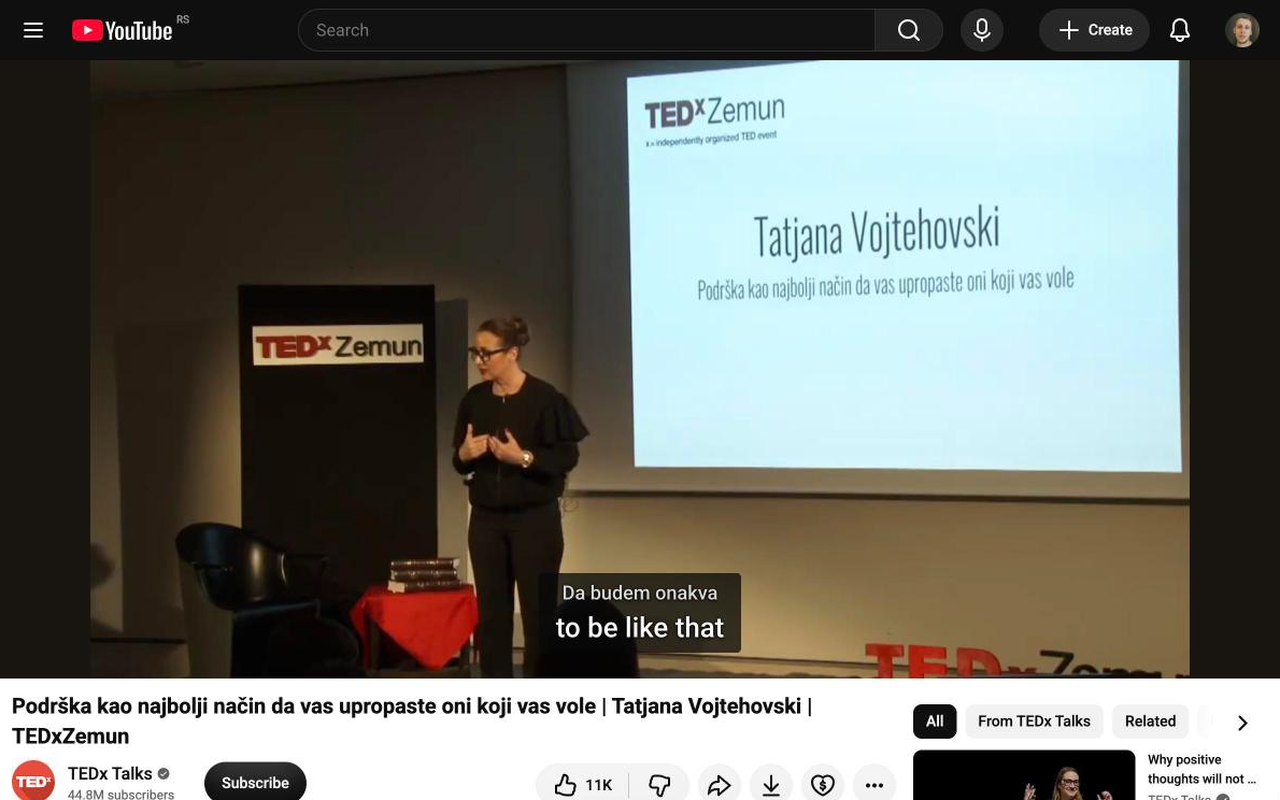
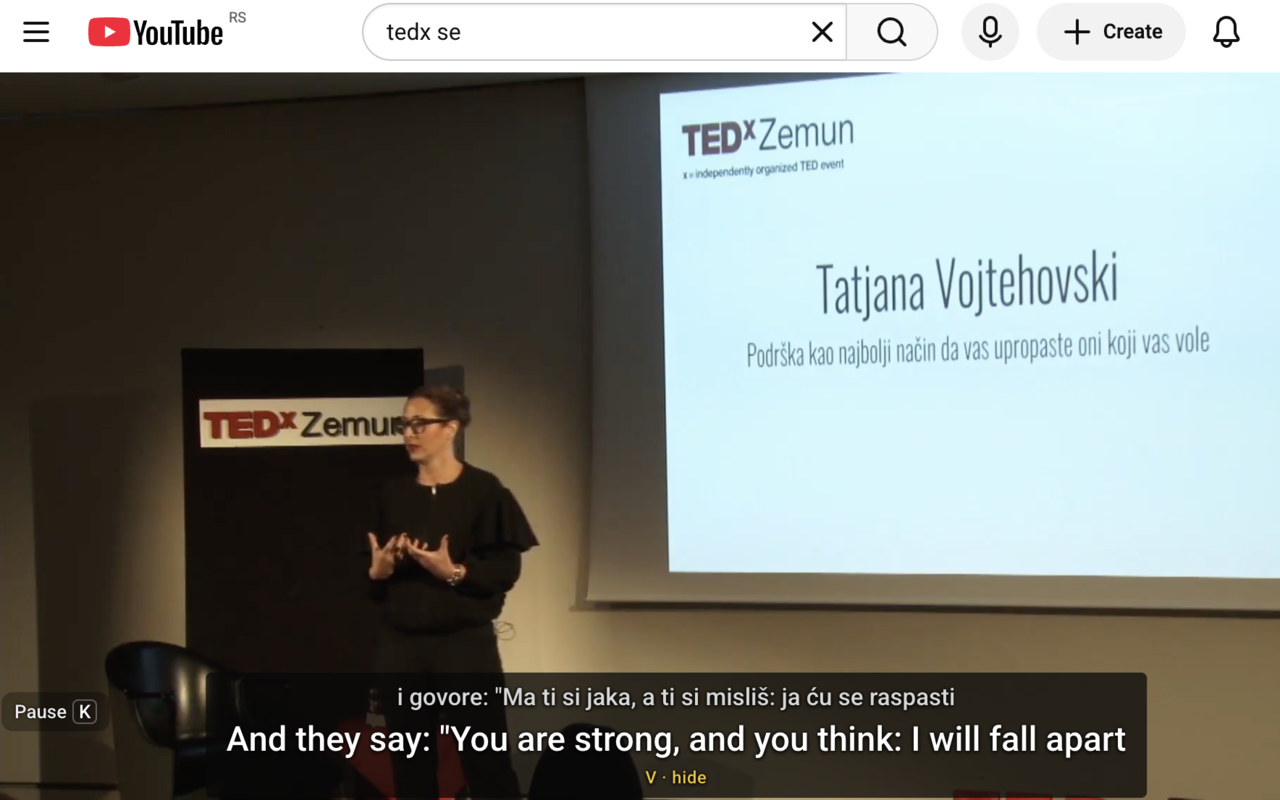
feat: improve search results and link previews for the website (#11)

diff --git a/tests/site.test.js b/tests/site.test.js
@@ -1,10 +1,14 @@
 import { test } from 'node:test';
 import assert from 'node:assert/strict';
-import { readFileSync } from 'node:fs';
-import { LANGUAGES, loadStrings, render } from '../site/build.mjs';
+import { createHash } from 'node:crypto';
+import { existsSync, mkdtempSync, readFileSync, rmSync } from 'node:fs';
+import { tmpdir } from 'node:os';
+import { join } from 'node:path';
+import { LANGUAGES, build, loadStrings, render } from '../site/build.mjs';
 
 const template = readFileSync(new URL('../site/template.html', import.meta.url), 'utf8');
 const strings = loadStrings();
+const SITE = 'https://rawmind.github.io/titl/';
 
 const tags = (text) => [...text.matchAll(/<\/?(\w+)|\{\w+\}/g)].map((m) => m[0]).sort().join(' ');
 
@@ -29,7 +33,7 @@ test('Arabic renders right to left', () => {
 test('every page renders with no placeholder left', () => {
   for (const lang of LANGUAGES) {
     const html = render(template, lang, strings[lang.slug]);
-    assert.doesNotMatch(html, /\{\{\w+\}\}|\{(store|release|guide|llmGuide|privacy|kofi|video)\}/, lang.slug);
+    assert.doesNotMatch(html, /\{\{\w+\}\}|\{(store|release|guide|llmGuide|privacy|kofi|video|whisperCpp)\}/, lang.slug);
     assert.match(html, new RegExp(`<html lang="${lang.htmlLang}"`));
     assert.match(html, /hreflang="ru" href="https:\/\/rawmind\.github\.io\/titl\/ru\/"/);
   }
@@ -38,7 +42,7 @@ test('every page renders with no placeholder left', () => {
 test('Russian page loads assets from the site root', () => {
   const html = render(template, LANGUAGES.find((l) => l.slug === 'ru'), strings.ru);
   assert.match(html, /href="\.\.\/style\.css"/);
-  assert.match(html, /src="\.\.\/store\/screenshot-1-subtitles\.png"/);
+  assert.match(html, /src="\.\.\/img\/screenshot-1-subtitles-1280\.webp"/);
 });
 
 test('every page links to every language and marks its own', () => {
@@ -70,4 +74,87 @@ test('Google Analytics loads only after consent', () => {
 
 test('each OS has an install anchor that opens its tab', () => {
   for (const anchor of ['installation_macos', 'installation_windows', 'installation_linux']) assert.match(template, new RegExp(anchor));
+});
+
+test('search titles and descriptions are unique and within the length limits', () => {
+  for (const key of ['title', 'metaDesc']) {
+    assert.equal(new Set(LANGUAGES.map((l) => strings[l.slug][key])).size, LANGUAGES.length, key);
+  }
+  for (const { slug } of LANGUAGES) {
+    assert.ok([...strings[slug].title].length <= 65, `${slug} title`);
+    assert.ok([...strings[slug].metaDesc].length <= 160, `${slug} description`);
+    assert.match(strings[slug].title, /YouTube/);
+    assert.match(strings[slug].title, / · Titl$/);
+  }
+});
+
+test('every page lists the same language alternates, including itself', () => {
+  const expected = [...LANGUAGES.map((l) => `${l.slug} ${l.slug === 'en' ? '' : `${l.slug}/`}`), 'x-default '];
+  for (const lang of LANGUAGES) {
+    const html = render(template, lang, strings[lang.slug]);
+    const found = [...html.matchAll(/<link rel="alternate" hreflang="([^"]+)" href="https:\/\/rawmind\.github\.io\/titl\/([^"]*)">/g)];
+    assert.deepEqual(found.map((m) => `${m[1]} ${m[2]}`), expected, lang.slug);
+  }
+});
+
+test('structured data is valid JSON, describes the page and claims no rating', () => {
+  for (const lang of LANGUAGES) {
+    const html = render(template, lang, strings[lang.slug]);
+    const data = JSON.parse(html.match(/<script type="application\/ld\+json">(.*?)<\/script>/)[1]);
+    assert.equal(data['@type'], 'SoftwareApplication');
+    assert.equal(data.description, strings[lang.slug].metaDesc);
+    assert.equal(data.inLanguage, lang.htmlLang);
+    assert.equal(data.offers.price, 0);
+    assert.equal('aggregateRating' in data, false);
+    assert.ok(html.includes(`<link rel="canonical" href="${data.url}">`), lang.slug);
+  }
+});
+
+test('every site file a page refers to is in the built site', () => {
+  const out = mkdtempSync(join(tmpdir(), 'titl-site-'));
+  try {
+    build(out);
+    for (const lang of LANGUAGES) {
+      const dir = lang.slug === 'en' ? out : join(out, lang.slug);
+      const html = readFileSync(join(dir, 'index.html'), 'utf8');
+      const tags = html.match(/<(?:img src|a class="zoom"|link rel="(?:icon|stylesheet)")[^>]*>/g);
+      const files = tags.flatMap((tag) => [
+        ...[...tag.matchAll(/ (?:src|href)="([^"]+)"/g)].map((m) => m[1]),
+        ...[...tag.matchAll(/ srcset="([^"]+)"/g)].flatMap((m) => m[1].split(',').map((c) => c.trim().split(' ')[0])),
+      ]);
+      assert.ok(files.length > 10, lang.slug);
+      for (const f of files) assert.ok(existsSync(join(dir, f)), `${lang.slug}: ${f}`);
+      const data = JSON.parse(html.match(/<script type="application\/ld\+json">(.*?)<\/script>/)[1]);
+      const ogImage = html.match(/<meta property="og:image" content="([^"]+)">/)[1];
+      for (const url of [ogImage, data.image, data.screenshot]) {
+        assert.ok(url.startsWith(SITE), `${lang.slug}: ${url}`);
+        assert.ok(existsSync(join(out, url.slice(SITE.length))), `${lang.slug}: ${url}`);
+      }
+    }
+  } finally {
+    rmSync(out, { recursive: true, force: true });
+  }
+});
+
+test('WebP screenshots match the store screenshots they were made from', () => {
+  const sources = JSON.parse(readFileSync(new URL('./screenshots.json', import.meta.url), 'utf8'));
+  for (const [name, hash] of Object.entries(sources)) {
+    const png = readFileSync(new URL(`../store/${name}`, import.meta.url));
+    const help = `${name} changed: run scripts/screenshots.sh`;
+    assert.equal(createHash('sha256').update(png).digest('hex'), hash, help);
+    for (const width of [640, 1280]) {
+      assert.ok(existsSync(new URL(`../site/img/${name.replace('.png', `-${width}.webp`)}`, import.meta.url)), help);
+    }
+  }
+});
+
+test('every screenshot opens its full-size image', () => {
+  for (const lang of LANGUAGES) {
+    const html = render(template, lang, strings[lang.slug]);
+    const links = [...html.matchAll(/<a class="zoom" href="([^"]+)"><img src="([^"]+)"[^>]* alt="[^"]+"><\/a>/g)];
+    assert.equal(links.length, 5, lang.slug);
+    for (const [, href, src] of links) assert.equal(href, src, lang.slug);
+    assert.equal(html.match(/<img src="[^"]*screenshot-/g).length, links.length, lang.slug);
+    assert.ok(html.includes(`<button type="button" aria-label="${strings[lang.slug].close}">`), lang.slug);
+  }
 });

diff --git a/site/template.html b/site/template.html
@@ -10,12 +10,18 @@
 {{alternates}}
   <link rel="icon" type="image/png" sizes="32x32" href="{{base}}icons/icon32.png">
   <link rel="icon" type="image/svg+xml" href="{{base}}icons/icon.svg">
+  <meta property="og:type" content="website">
+  <meta property="og:site_name" content="Titl">
   <meta property="og:title" content="{{title}}">
   <meta property="og:description" content="{{metaDesc}}">
   <meta property="og:image" content="{{site}}store/screenshot-1-subtitles.png">
+  <meta property="og:image:width" content="1280">
+  <meta property="og:image:height" content="800">
+  <meta property="og:image:alt" content="{{shotAlt}}">
   <meta property="og:url" content="{{url}}">
   <meta property="og:locale" content="{{ogLocale}}">
   <meta name="twitter:card" content="summary_large_image">
+  <script type="application/ld+json">{{jsonLd}}</script>
   <link rel="stylesheet" href="{{base}}style.css">
   <script>
     (() => {
@@ -63,7 +69,7 @@
       </div>
       <p class="small">{{heroBrowsers}}</p>
       <figure class="shot">
-        <img src="{{base}}store/screenshot-1-subtitles.png" width="1280" height="800" alt="{{shotAlt}}">
+        <a class="zoom" href="{{base}}img/screenshot-1-subtitles-1280.webp"><img src="{{base}}img/screenshot-1-subtitles-1280.webp" srcset="{{base}}img/screenshot-1-subtitles-640.webp 640w, {{base}}img/screenshot-1-subtitles-1280.webp 1280w" sizes="(max-width: 1080px) calc(100vw - 32px), 1048px" fetchpriority="high" width="1280" height="800" alt="{{shotAlt}}"></a>
         <figcaption>{{shotCaption}}</figcaption>
       </figure>
     </section>
@@ -106,9 +112,10 @@
     <section class="screens">
       <h2>{{seeTitle}}</h2>
       <div class="screens-row">
-        <figure><img src="{{base}}store/screenshot-2-on-youtube.png" loading="lazy" width="1280" height="800" alt="{{scrYoutubeAlt}}"><figcaption>{{scrYoutube}}</figcaption></figure>
-        <figure><img src="{{base}}store/screenshot-3-popup.png" loading="lazy" width="1280" height="800" alt="{{scrPopupAlt}}"><figcaption>{{scrPopup}}</figcaption></figure>
-        <figure><img src="{{base}}store/screenshot-4-options.png" loading="lazy" width="1280" height="800" alt="{{scrOptionsAlt}}"><figcaption>{{scrOptions}}</figcaption></figure>
+        <figure><a class="zoom" href="{{base}}img/screenshot-2-on-youtube-1280.webp"><img src="{{base}}img/screenshot-2-on-youtube-1280.webp" srcset="{{base}}img/screenshot-2-on-youtube-640.webp 640w, {{base}}img/screenshot-2-on-youtube-1280.webp 1280w" sizes="(max-width: 743px) calc(100vw - 32px), (max-width: 1080px) calc(50vw - 24px), 516px" loading="lazy" width="1280" height="800" alt="{{scrYoutubeAlt}}"></a><figcaption>{{scrYoutube}}</figcaption></figure>
+        <figure><a class="zoom" href="{{base}}img/screenshot-3-popup-1280.webp"><img src="{{base}}img/screenshot-3-popup-1280.webp" srcset="{{base}}img/screenshot-3-popup-640.webp 640w, {{base}}img/screenshot-3-popup-1280.webp 1280w" sizes="(max-width: 743px) calc(100vw - 32px), (max-width: 1080px) calc(50vw - 24px), 516px" loading="lazy" width="1280" height="800" alt="{{scrPopupAlt}}"></a><figcaption>{{scrPopup}}</figcaption></figure>
+        <figure><a class="zoom" href="{{base}}img/screenshot-4-options-1280.webp"><img src="{{base}}img/screenshot-4-options-1280.webp" srcset="{{base}}img/screenshot-4-options-640.webp 640w, {{base}}img/screenshot-4-options-1280.webp 1280w" sizes="(max-width: 743px) calc(100vw - 32px), (max-width: 1080px) calc(50vw - 24px), 516px" loading="lazy" width="1280" height="800" alt="{{scrOptionsAlt}}"></a><figcaption>{{scrOptions}}</figcaption></figure>
+        <figure><a class="zoom" href="{{base}}img/screenshot-5-local-llm-1280.webp"><img src="{{base}}img/screenshot-5-local-llm-1280.webp" srcset="{{base}}img/screenshot-5-local-llm-640.webp 640w, {{base}}img/screenshot-5-local-llm-1280.webp 1280w" sizes="(max-width: 743px) calc(100vw - 32px), (max-width: 1080px) calc(50vw - 24px), 516px" loading="lazy" width="1280" height="800" alt="{{scrLlmAlt}}"></a><figcaption>{{scrLlm}}</figcaption></figure>
       </div>
     </section>
 
@@ -163,11 +170,13 @@
 
     <section id="faq">
       <h2>{{faqTitle}}</h2>
+      <details><summary>{{q8}}</summary><p>{{a8}}</p></details>
       <details><summary>{{q1}}</summary><p>{{a1}}</p></details>
       <details><summary>{{q2}}</summary><p>{{a2}}</p></details>
       <details><summary>{{q3}}</summary><p>{{a3}}</p></details>
       <details><summary>{{q6}}</summary><p>{{a6}}</p></details>
       <details><summary>{{q7}}</summary><p>{{a7}}</p></details>
+      <details><summary>{{q9}}</summary><p>{{a9}}</p></details>
       <details><summary>{{q4}}</summary><p>{{a4}}</p></details>
       <details><summary>{{q5}}</summary><p>{{a5}}</p></details>
     </section>
@@ -188,6 +197,11 @@
     </p>
     <p class="small">{{footerFree}}</p>
   </footer>
+
+  <dialog class="zoomed" id="zoomed">
+    <button type="button" aria-label="{{close}}"><span aria-hidden="true">×</span></button>
+    <img alt="">
+  </dialog>
 
   <div class="consent" id="consent" role="region" aria-label="{{cookieSettings}}" hidden>
     <p>{{consentText}}</p>
@@ -243,6 +257,22 @@
         } catch {}
       });
     }
+    const zoomed = document.getElementById('zoomed');
+    const zoomedImage = zoomed.querySelector('img');
+    for (const link of document.querySelectorAll('.zoom')) {
+      link.addEventListener('click', (e) => {
+        if (e.metaKey || e.ctrlKey || e.shiftKey || e.altKey || !zoomed.showModal) return;
+        e.preventDefault();
+        const { alt, width, height } = link.querySelector('img');
+        zoomedImage.src = link.href;
+        zoomedImage.alt = alt;
+        zoomed.style.setProperty('--ratio', width / height);
+        zoomed.setAttribute('aria-label', alt);
+        zoomed.showModal();
+        zoomed.scrollLeft = ((zoomed.scrollWidth - zoomed.clientWidth) / 2) * (document.dir === 'rtl' ? -1 : 1);
+      });
+    }
+    zoomed.addEventListener('click', () => zoomed.close());
     const tabs = [...document.querySelectorAll('.tabs [role="tab"]')];
     const select = (tab, focus = false) => {
       for (const t of tabs) {

diff --git a/site/style.css b/site/style.css
@@ -253,7 +253,7 @@ figcaption {
 
 .screens-row {
   display: grid;
-  grid-template-columns: repeat(auto-fit, minmax(260px, 1fr));
+  grid-template-columns: repeat(auto-fit, minmax(min(100%, 348px), 1fr));
   gap: 16px;
 }
 
@@ -609,4 +609,75 @@ footer p {
   font-size: 13px;
   font-weight: 600;
   vertical-align: middle;
+}
+
+.zoom {
+  display: block;
+  cursor: zoom-in;
+}
+
+.zoom:focus-visible {
+  outline: 3px solid var(--accent);
+  outline-offset: 4px;
+  border-radius: var(--radius);
+}
+
+html:has(.zoomed[open]) {
+  overflow: hidden;
+}
+
+.zoomed {
+  width: 100vw;
+  height: 100dvh;
+  max-width: none;
+  max-height: none;
+  margin: 0;
+  padding: 0;
+  border: 0;
+  background: transparent;
+  overflow: auto;
+  cursor: zoom-out;
+}
+
+.zoomed[open] {
+  display: grid;
+  align-items: center;
+  justify-items: center;
+}
+
+.zoomed::backdrop {
+  background: rgba(0, 0, 0, 0.88);
+}
+
+.zoomed img {
+  width: min(96vw, 1280px, 94dvh * var(--ratio, 1.6));
+  aspect-ratio: var(--ratio, 1.6);
+  max-width: none;
+  border-radius: var(--radius);
+}
+
+.zoomed button {
+  position: fixed;
+  top: 12px;
+  inset-inline-end: 12px;
+  width: 44px;
+  height: 44px;
+  border: 1px solid var(--border);
+  border-radius: 50%;
+  background: var(--surface);
+  color: var(--text);
+  font-size: 26px;
+  line-height: 1;
+  cursor: pointer;
+}
+
+@media (max-width: 743px) {
+  .zoomed[open] {
+    justify-items: start;
+  }
+
+  .zoomed img {
+    width: max(100vw, 800px);
+    border-radius: 0;
+  }
 }

diff --git a/README.md b/README.md
@@ -12,7 +12,7 @@
 [![License: MIT](https://img.shields.io/badge/license-MIT-blue)](LICENSE)
 [![Support on Ko-fi](https://img.shields.io/badge/Ko--fi-support%20Titl-ff5e5b?logo=kofi&logoColor=white)](https://ko-fi.com/rwmnd)
 
-[**Add to Chrome**](https://chromewebstore.google.com/detail/titl/bpapgchpopccpbgbkfldmdmfmddgoeme) · [Install the helper](#install) · [Changelog](CHANGELOG.md) · [Privacy](PRIVACY.md) · [♥ Support](https://ko-fi.com/rwmnd)
+[**Add to Chrome**](https://chromewebstore.google.com/detail/titl/bpapgchpopccpbgbkfldmdmfmddgoeme) · [Website](https://rawmind.github.io/titl/) · [Install the helper](#install) · [Changelog](CHANGELOG.md) · [Privacy](PRIVACY.md) · [♥ Support](https://ko-fi.com/rwmnd)
 
 <img src="store/screenshot-1-subtitles.png" alt="Titl showing Serbian subtitles with an English translation on a TEDx talk" width="820">
 
@@ -267,6 +267,8 @@ A local model translates each line together with the 4 lines before it (and thei
    The first start downloads the model. `--swa-full -c 2048 -np 1` matters: Titl's prompts stay under 300 tokens, and without `--swa-full` llama.cpp reprocesses Gemma's prompt on every line, which makes it about 3× slower. With `--swa-full` and Gemma's default 128k context, the cache doesn't fit in memory.
 2. **Options → Translator → Local LLM**, check the **Model API URL**, and click **Test connection**. For Ollama use `http://127.0.0.1:11434/v1` and a model name such as `gemma3:12b`; for LM Studio, `http://127.0.0.1:1234/v1`.
 3. **Save**.
+
+<img src="store/screenshot-5-local-llm.png" alt="Titl options for translating with a local LLM" width="640">
 
 Lines are translated one at a time, nearest to the playhead first. In lookahead mode, **Pause until ready** also waits for the translation, so lines don't show untranslated; set it to 0 to never pause. In live mode the translation appears a moment after the original.
 
